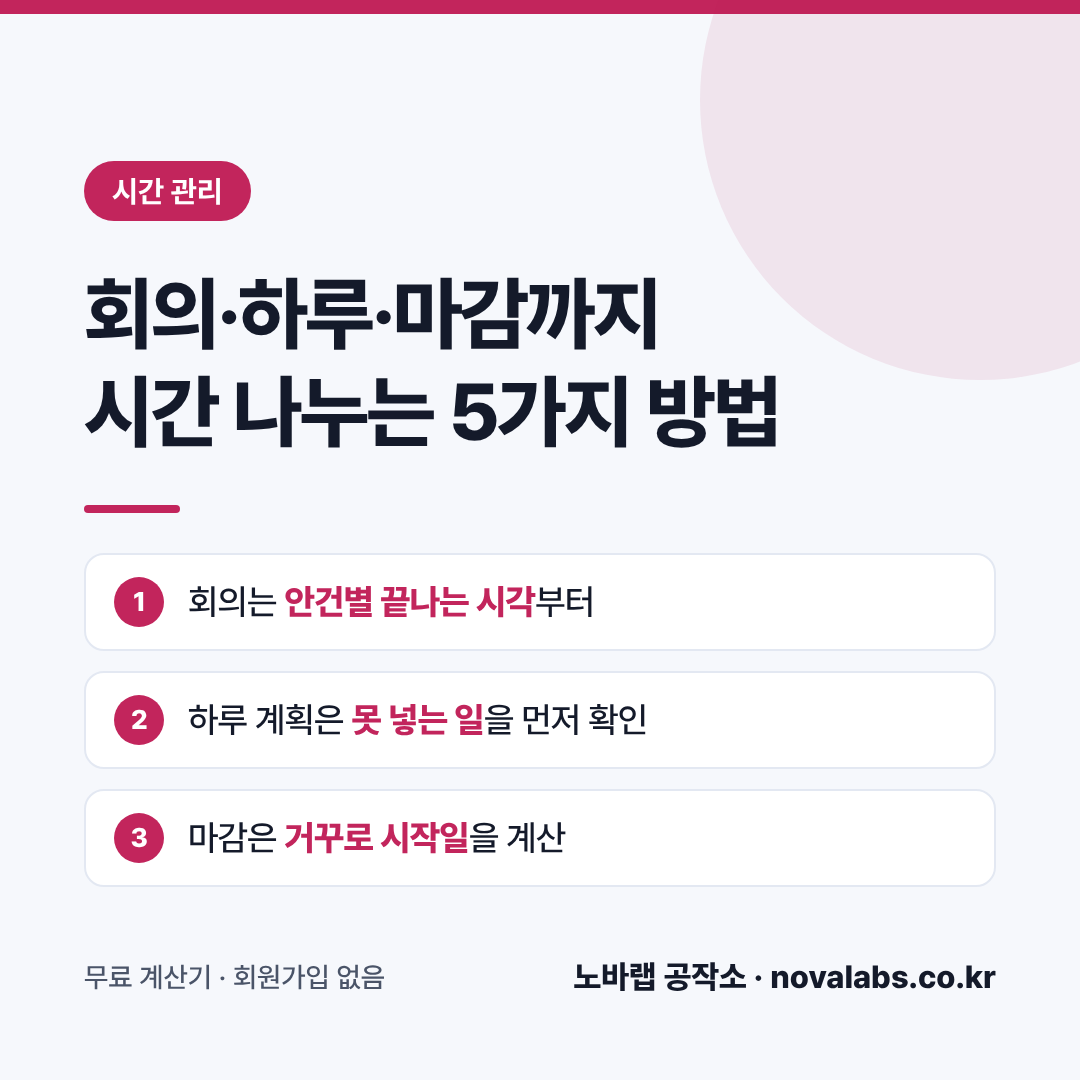
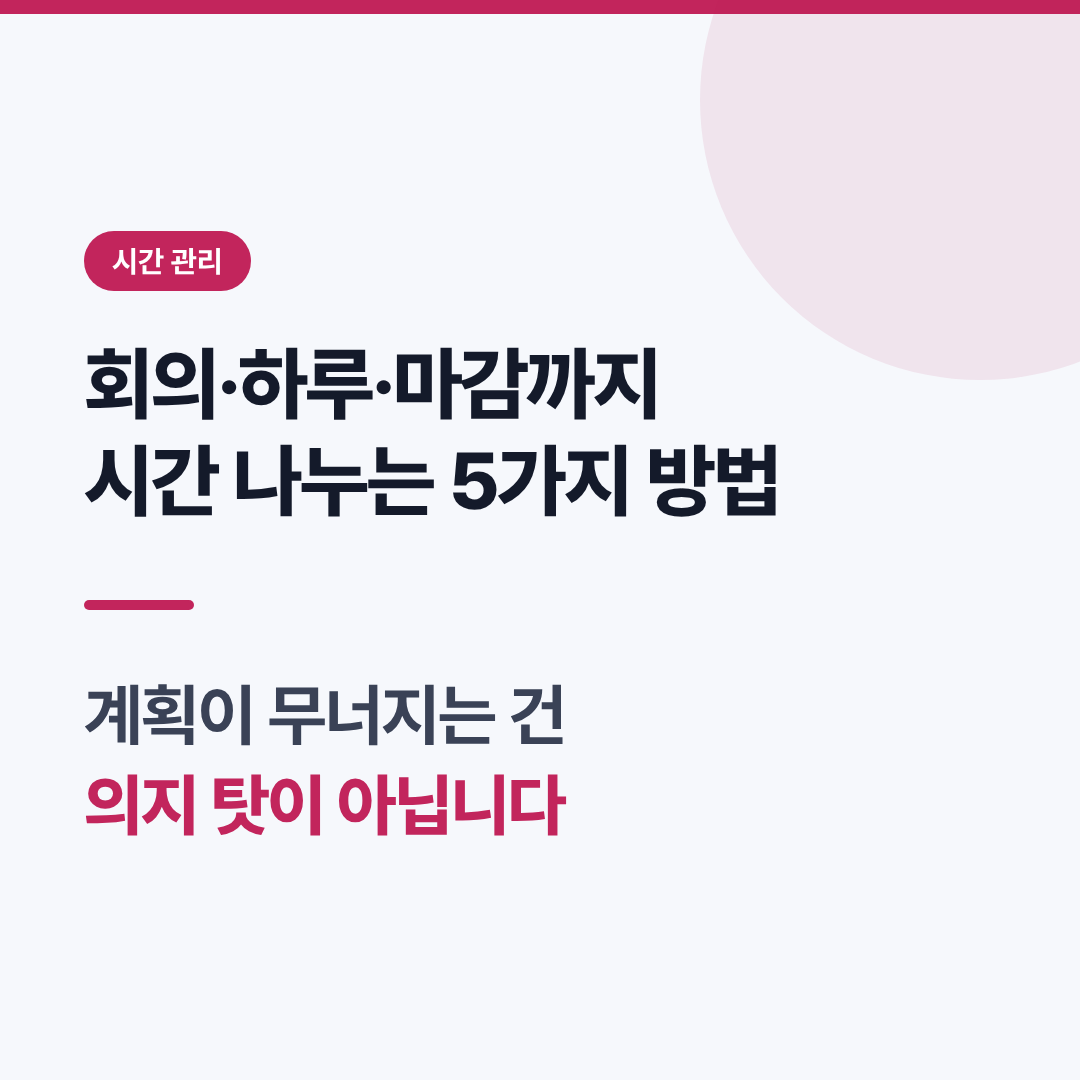
썸네일: 요약 항목과 사이트 표기를 빼고 후킹 문구로 교체
Claude-Session: https://claude.ai/code/session_01Tbmytbb12XdwMjEJY1bxqA

diff --git a/blog/tistory/README.md b/blog/tistory/README.md
@@ -38,8 +38,8 @@
 
 **대표 이미지(썸네일)**
 `thumbnails/` 폴더에 원고 번호와 같은 이름의 PNG(1080×1080)가 있습니다. 글쓰기 화면에서 이미지를 본문에 넣고 '대표 이미지'로 지정하세요.
-핵심 내용은 가운데에 모아 두어서, 스킨이 4:3 등으로 잘라도 제목은 보입니다(16:9로 자르는 스킨은 아래 항목이 잘릴 수 있음).
-문구를 고치려면 `thumbnails/make-thumbnails.mjs`의 `POSTS`를 고친 뒤 `node blog/tistory/thumbnails/make-thumbnails.mjs`를 실행하세요
+이미지는 주제 태그, 글 제목, 후킹 문구 두 줄로만 구성했습니다. 내용은 가운데에 모아 두어서 스킨이 4:3 등으로 잘라도 대부분 보입니다(16:9로 자르는 스킨은 위아래가 잘릴 수 있음).
+문구를 고치려면 `thumbnails/make-thumbnails.mjs`의 `POSTS`(`title`, `hook`)를 고친 뒤 `node blog/tistory/thumbnails/make-thumbnails.mjs`를 실행하세요
 (번호를 붙이면 그 글만: `... make-thumbnails.mjs 05`).
 
 **마크다운 모드로 올릴 때**
